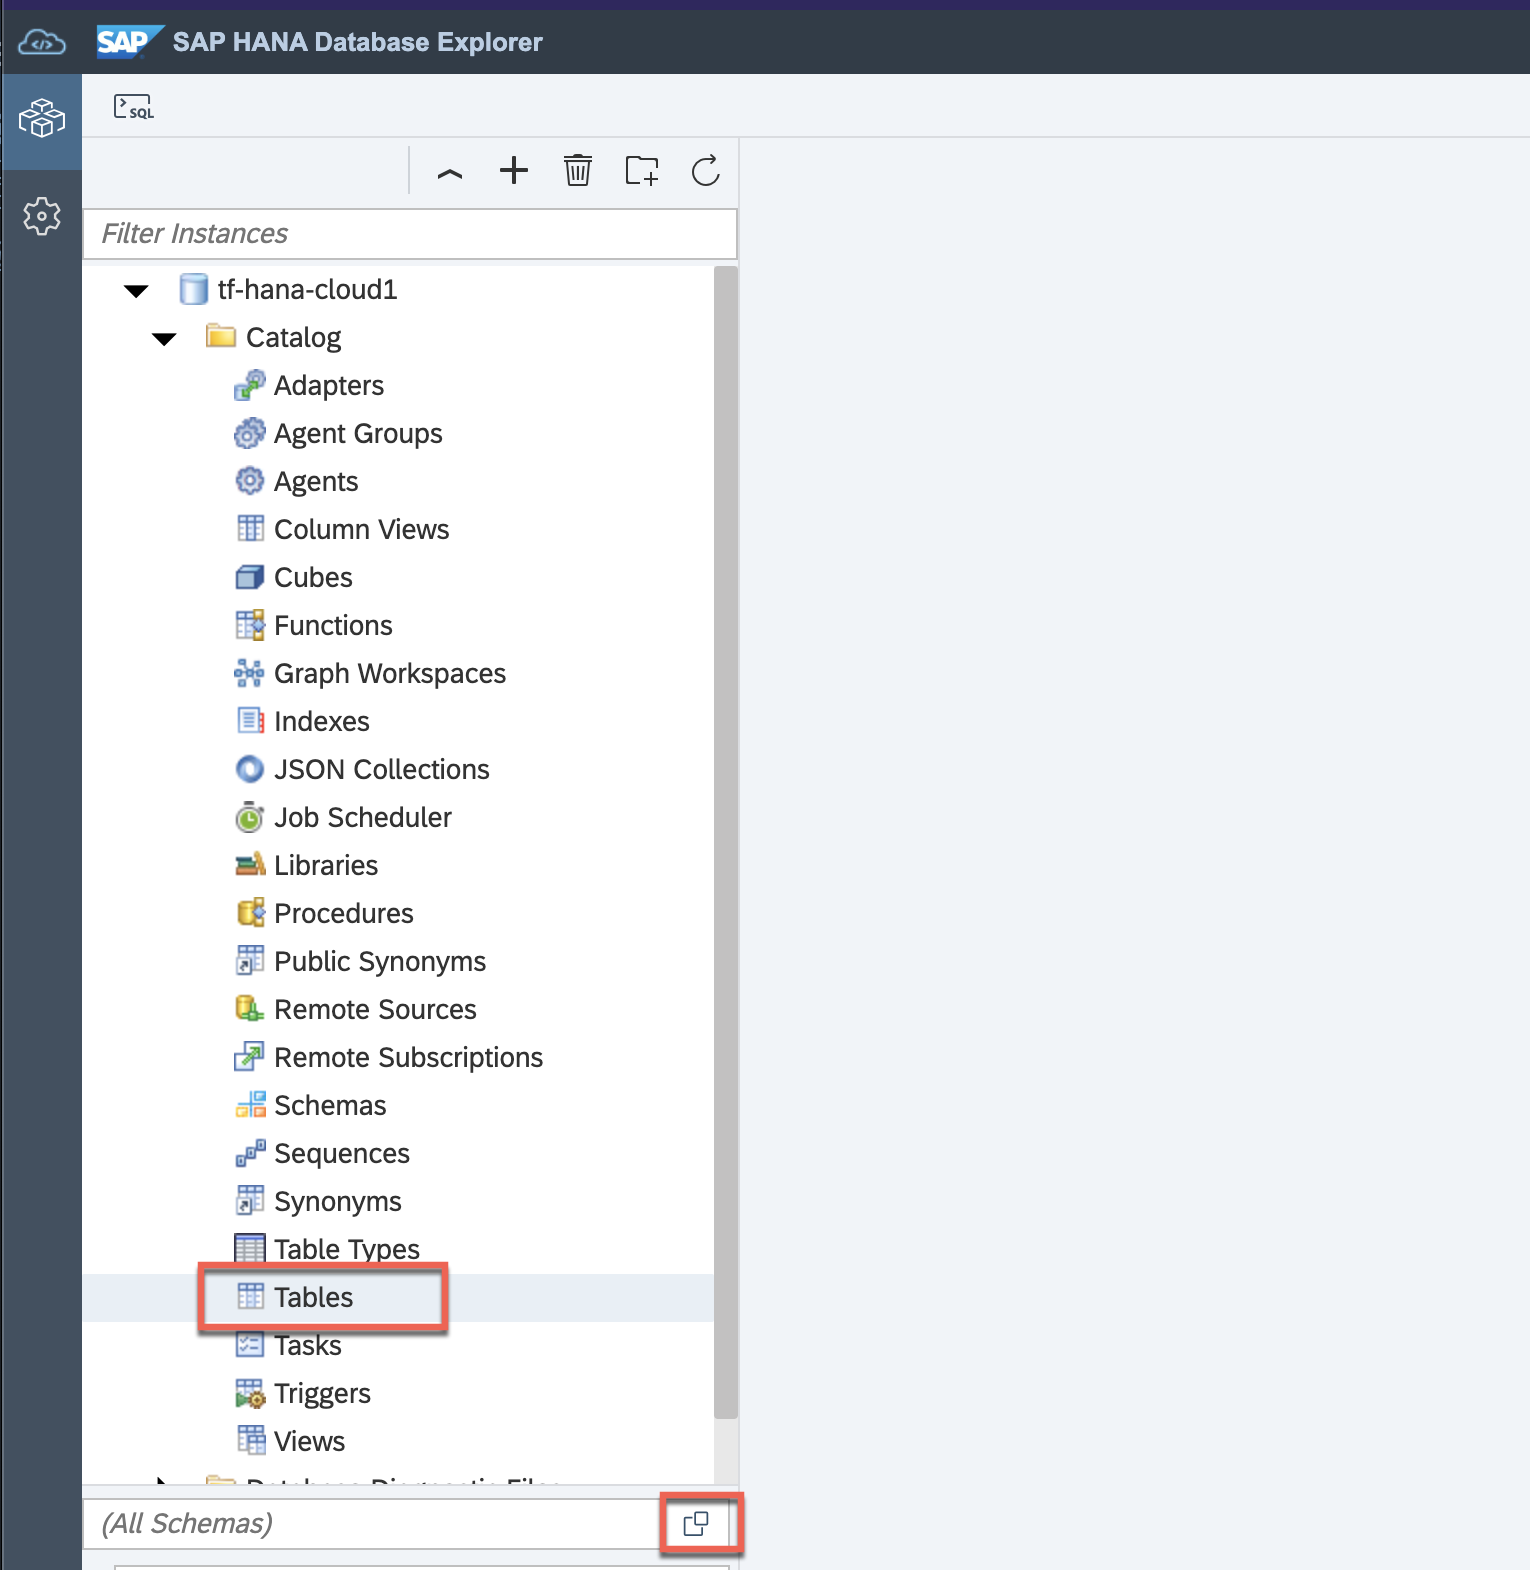
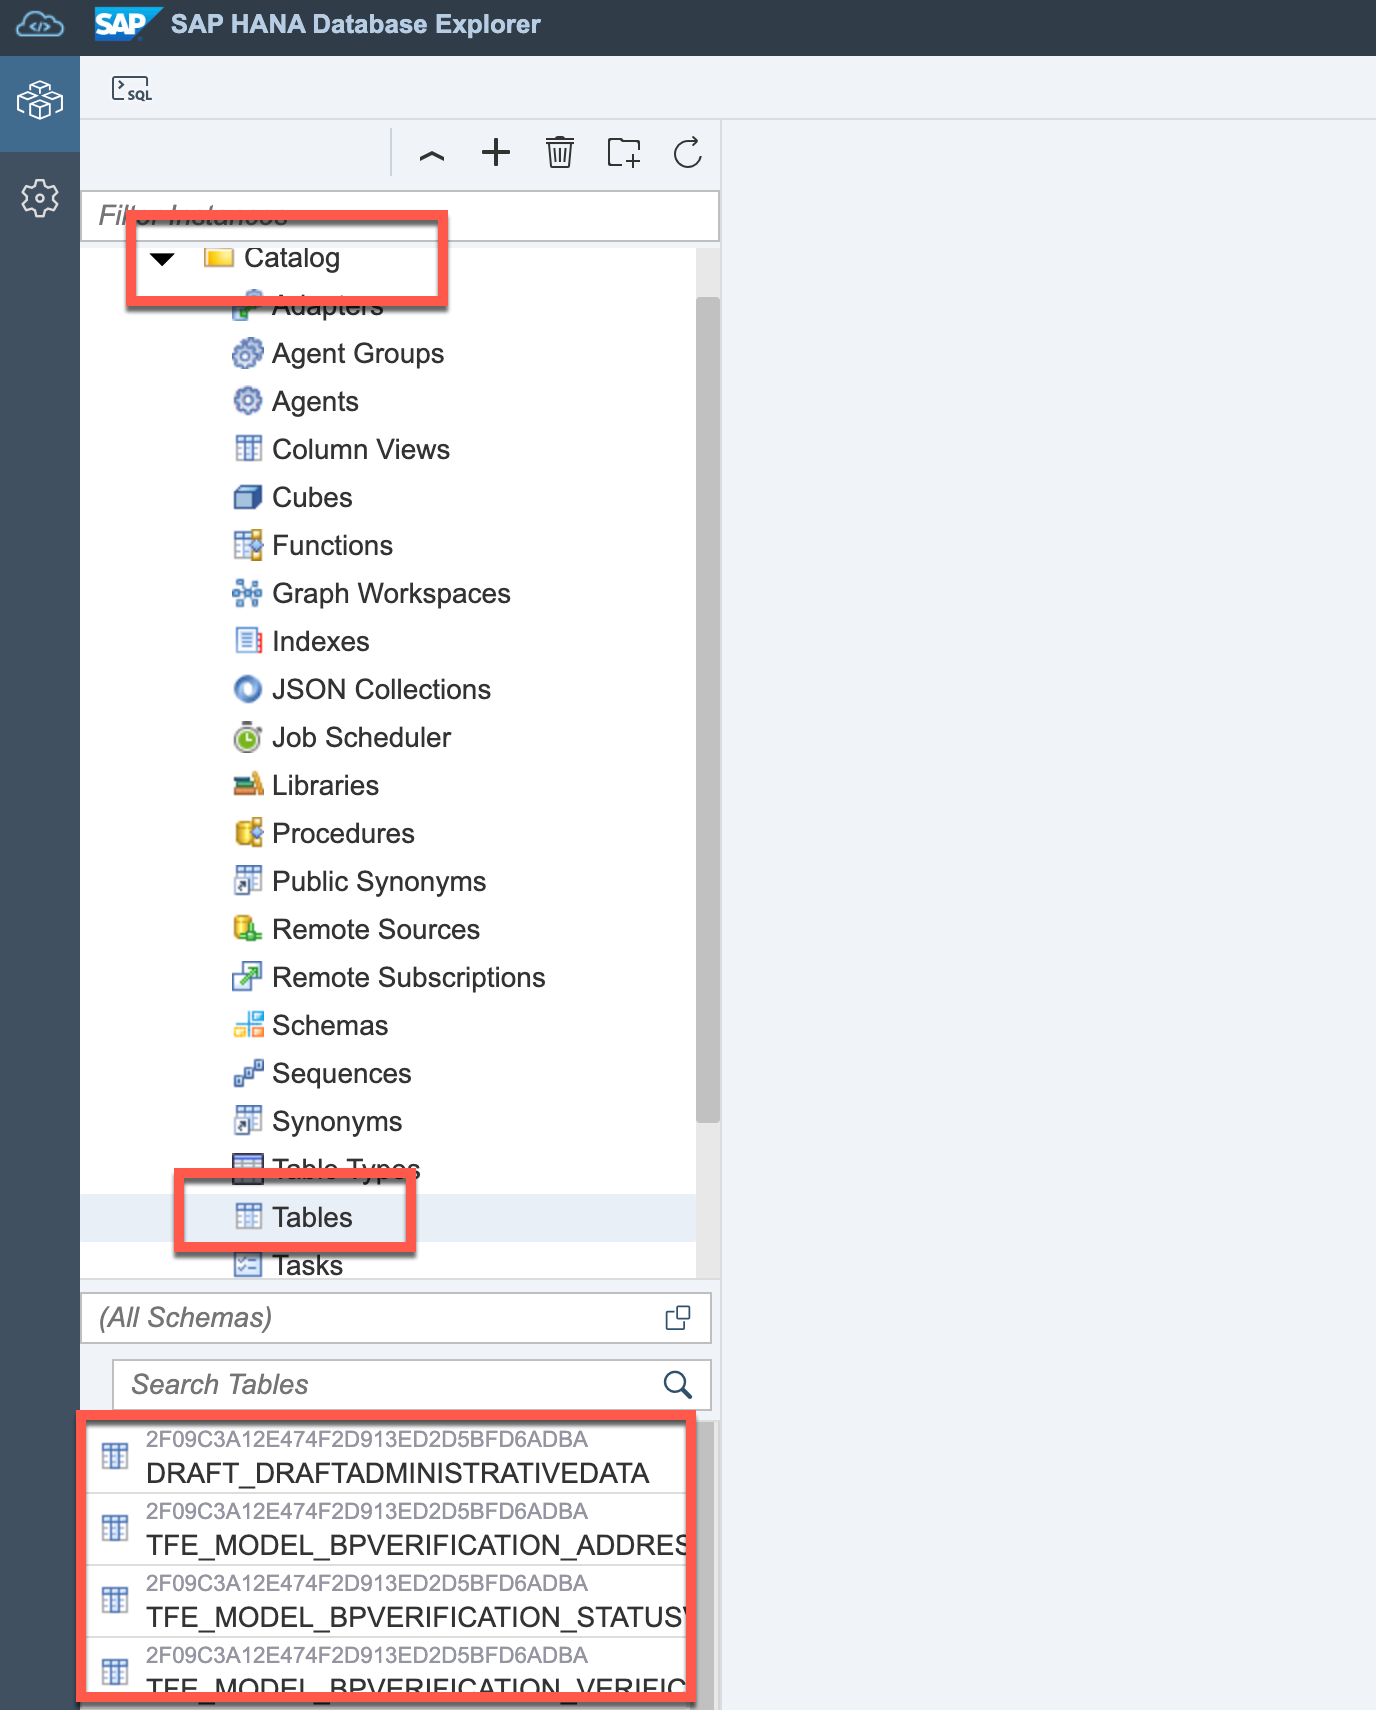
update

Changed region(s): [[0.0, 0.0, 1.0, 1.0]]

diff --git a/exercises/ex4/README.md b/exercises/ex4/README.md
@@ -15,14 +15,14 @@ The CAP compiler takes the CDS files and, as the tools already says, compiles th
 
 Some of the tables (like StatusValues) receive static values from CSV files, the other tables (Verifications, Addresses) are filled once the event handlers that you have seen in the previous exercises process incoming events from SAP S/4HANA via SAP Event Mesh. Additionally, CAP produces tables for [draft handling](https://help.sap.com/docs/ABAP_PLATFORM_NEW/468a97775123488ab3345a0c48cadd8f/ed9aa41c563a44b18701529c8327db4d.html?version=202110.000&locale=en-US) based on the [corresponding annotation in the CDS files](https://github.com/SAP-samples/btp-build-resilient-apps/blob/main/srv/admin.cds#L6).
 
-Since the CAP application is already deployed, you should see those artifacts in SAP HANA Cloud already. If you remember seeing the applications **BPVerification-db-<STUDENT>-deployer** in the list of applications in your dev space on SAP BTP, all in **Stopped** status, that's where the artifact deployment happened.
+Since the CAP application is already deployed, you should see those artifacts in SAP HANA Cloud already. If you remember seeing the applications **BPVerification-db-\<STUDENT>-deployer** in the list of applications in your dev space on SAP BTP, all in **Stopped** status, that's where the artifact deployment happened.
 
-1. 👉 In order to find out the **schema** for your particular application, navigate to **Services > Instances and Subscriptions**.
-2. 👉 Search for your **BPVerification-db-<STUDENT>-deployer** and click on the **bindings** column to display the service credentials.
+1. 👉 In order to find out the db **credentials** for your particular application, navigate to **Services > Instances and Subscriptions**.
+2. 👉 Search for your **BPVerification-db-\<STUDENT>** and click on the **bindings** column to display the service credentials.
 
    ![Open the SAP HANA Database Explorer](images/bindings.png)
 
-3. 👉 Note down the schema information that you'll need in the subsequent exercise.
+3. 👉 Note down the **user** and **password** information that you'll need in the subsequent exercise.
 
    ![Open the SAP HANA Database Explorer](images/schema_information.png)
 
@@ -44,22 +44,15 @@ There are different administration tools for SAP HANA Cloud. It could be the [Da
 
    ![Open the SAP HANA Database Explorer](images/open_in_dbexplorer.png)
 
-   👉 Your instructor has already created a connection to the database with an admin user that has access to all schemas. Enter the following credentials:
+   👉 Enter the credentials (user, password) from the previous step.
 
-   **User:** DBADMIN
-   **Password:** ask your instructor for this password in case you don't have it yet
-
-   > **IMPORTANT: Please do not use this user for other purposes. Thank you!**
+   ![Open the SAP HANA Database Explorer](images/db-credentials.png)
 
 ## Exercise 4.3 Find the tables of the extension application
 
-If you double-click on the **tables** item you will see data for all database schemas. Let's narrow that down to your schema:
-
-1. 👉 Double-click the tables item and open the schema selection.
+1. 👉 Double-click on the **tables** item and you will see the database tables and data for your database schema. 
 
    ![Open the SAP HANA Database Explorer](images/schema_selection.png)
-
-2. 👉 Filter for the schema that you have noted down.
 
    - **TFE_MODEL_BPVERIFICATION_ADDRESSES**: One of the entities defined in the data model of the CAP application. (concatenated with the namespace that is defined in the first line of the CDS file)
    - **TFE_MODEL_BPVERIFICATION_STATUSVALUES**: One of the entities defined in the data model of the CAP application. (concatenated with the namespace that is defined in the first line of the CDS file)
@@ -68,7 +61,7 @@ If you double-click on the **tables** item you will see data for all database sc
    - **TFE_SERVICE_BUSINESSPARTNERVALIDATION_ADMINSERVICE_BUSINESSPARTNERVERIFICATION_DRAFTS**: Automatically generated table for Draft-Handling (naming: namespace + service name + entity + \_DRAFTS)
    - **TFE_SERVICE_BUSINESSPARTNERVALIDATION_ADMINSERVICE_ADDRESSES_DRAFTS**: Automatically generated table for Draft-Handling, since it's part of the Composition with the parent entity (naming: namespace + service name + entity + \_DRAFTS)
 
-3. 👉 Double-click the **Views** item and make yourself familiar with the individual Views. By selecting one of the Views, the Column information will appear on the right. Basically all the entities have a corresponding View, since they are exposed via the _AdminService_ (Source Code: <https://github.com/SAP-samples/btp-build-resilient-apps/blob/main/srv/admin.cds#L38-L39> and <https://github.com/SAP-samples/btp-build-resilient-apps/blob/main/srv/admin.cds#L7-L18>)
+2. 👉 Double-click the **Views** item and make yourself familiar with the individual Views. By selecting one of the Views, the Column information will appear on the right. Basically all the entities have a corresponding View, since they are exposed via the _AdminService_ (Source Code: <https://github.com/SAP-samples/btp-build-resilient-apps/blob/main/srv/admin.cds#L38-L39> and <https://github.com/SAP-samples/btp-build-resilient-apps/blob/main/srv/admin.cds#L7-L18>)
 
 ## Exercise 4.4 Change a business partner and check the updates in SAP S/4HANA and the HDI Container (extension field vs. S/4HANA fields)
 
